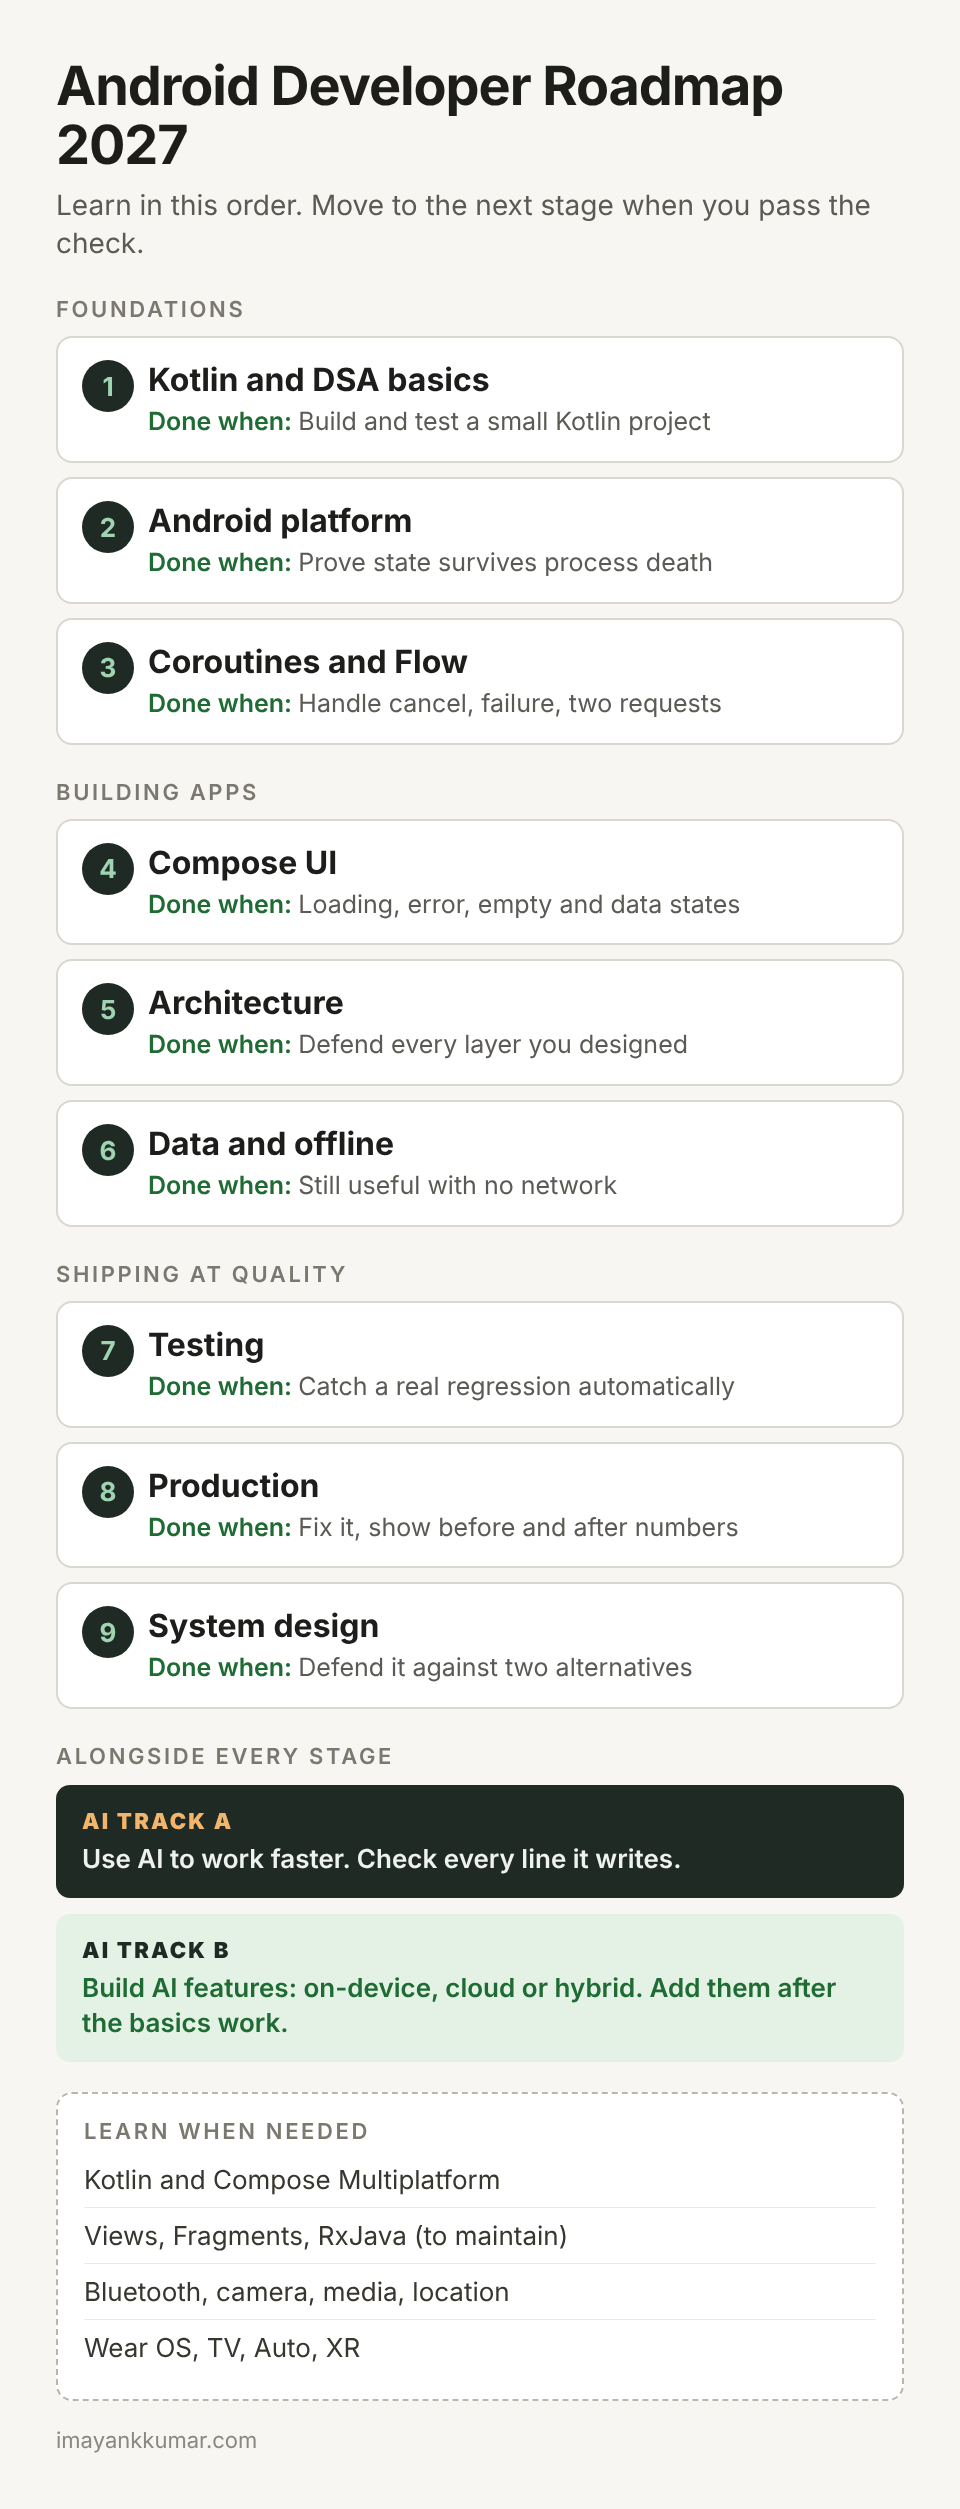
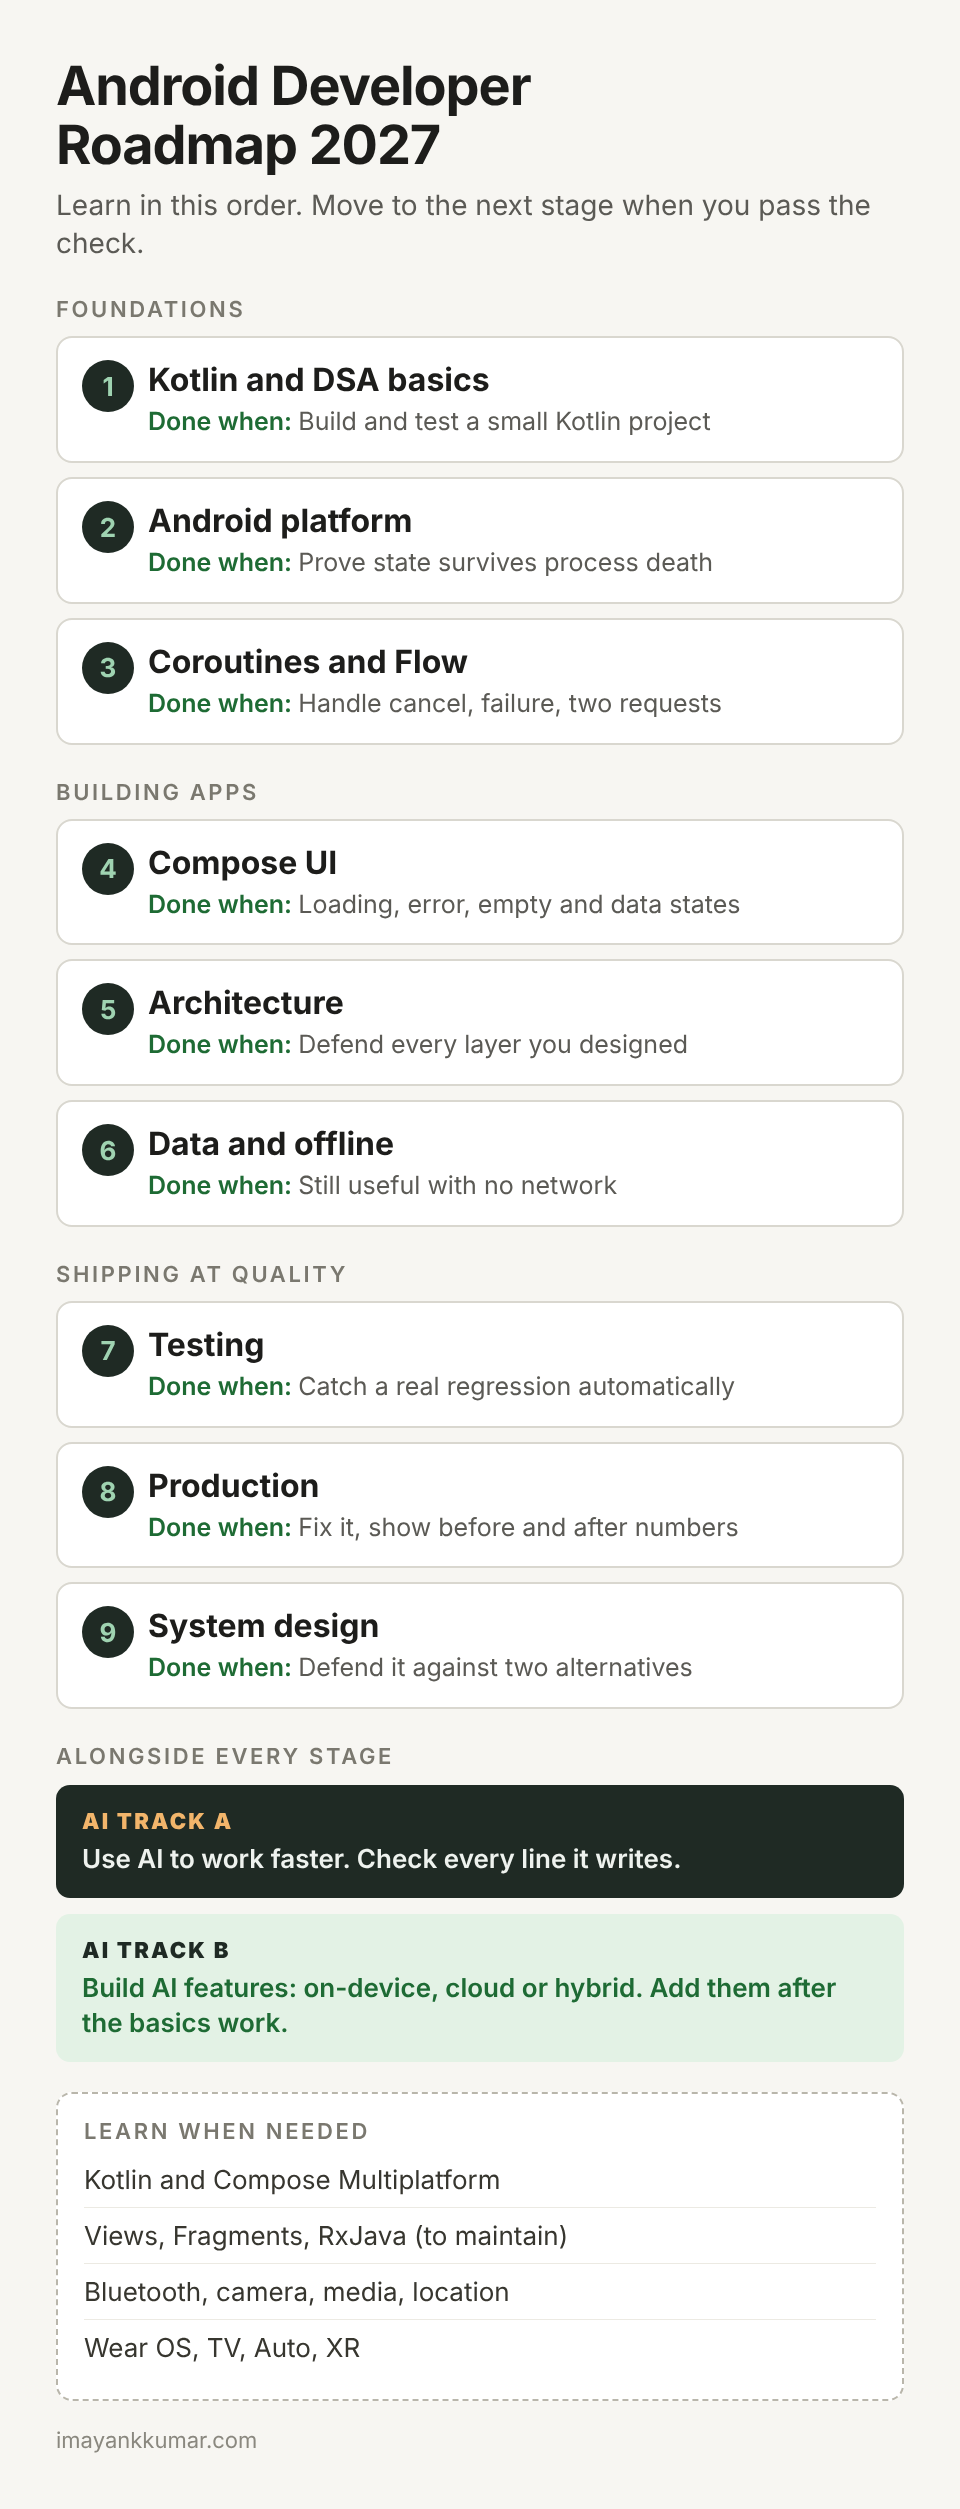
Fix anchor offset, phone tables and mobile diagram heading
- Add scroll-margin-top to article h2/h3 so Contents links land below the sticky header
- Tighter, smaller post tables at phone width (desktop unchanged)
- Mobile roadmap diagram heading now breaks as "Android Developer" / "Roadmap 2027"

Changed region(s): [[0.0625, 0.0311, 0.4688, 0.0933], [0.5625, 0.0, 0.8125, 0.0622]]

diff --git a/src/styles/global.css b/src/styles/global.css
@@ -280,6 +280,12 @@ a.page__link:hover {
   margin-top: var(--space-4);
 }
 
+/* Keep anchor targets clear of the sticky header. */
+.prose h2,
+.prose h3 {
+  scroll-margin-top: 5rem;
+}
+
 .prose h2 {
   margin-top: var(--space-12);
   font-size: var(--text-2xl);
@@ -367,6 +373,19 @@ a.page__link:hover {
 .prose th {
   background: var(--color-surface);
   font-weight: 650;
+}
+
+/* Phones: smaller text and tighter cells so columns get more room. */
+@media (max-width: 40rem) {
+  .prose table {
+    font-size: 0.8125rem;
+    line-height: 1.45;
+  }
+
+  .prose th,
+  .prose td {
+    padding: var(--space-1) var(--space-2);
+  }
 }
 
 .prose hr {
